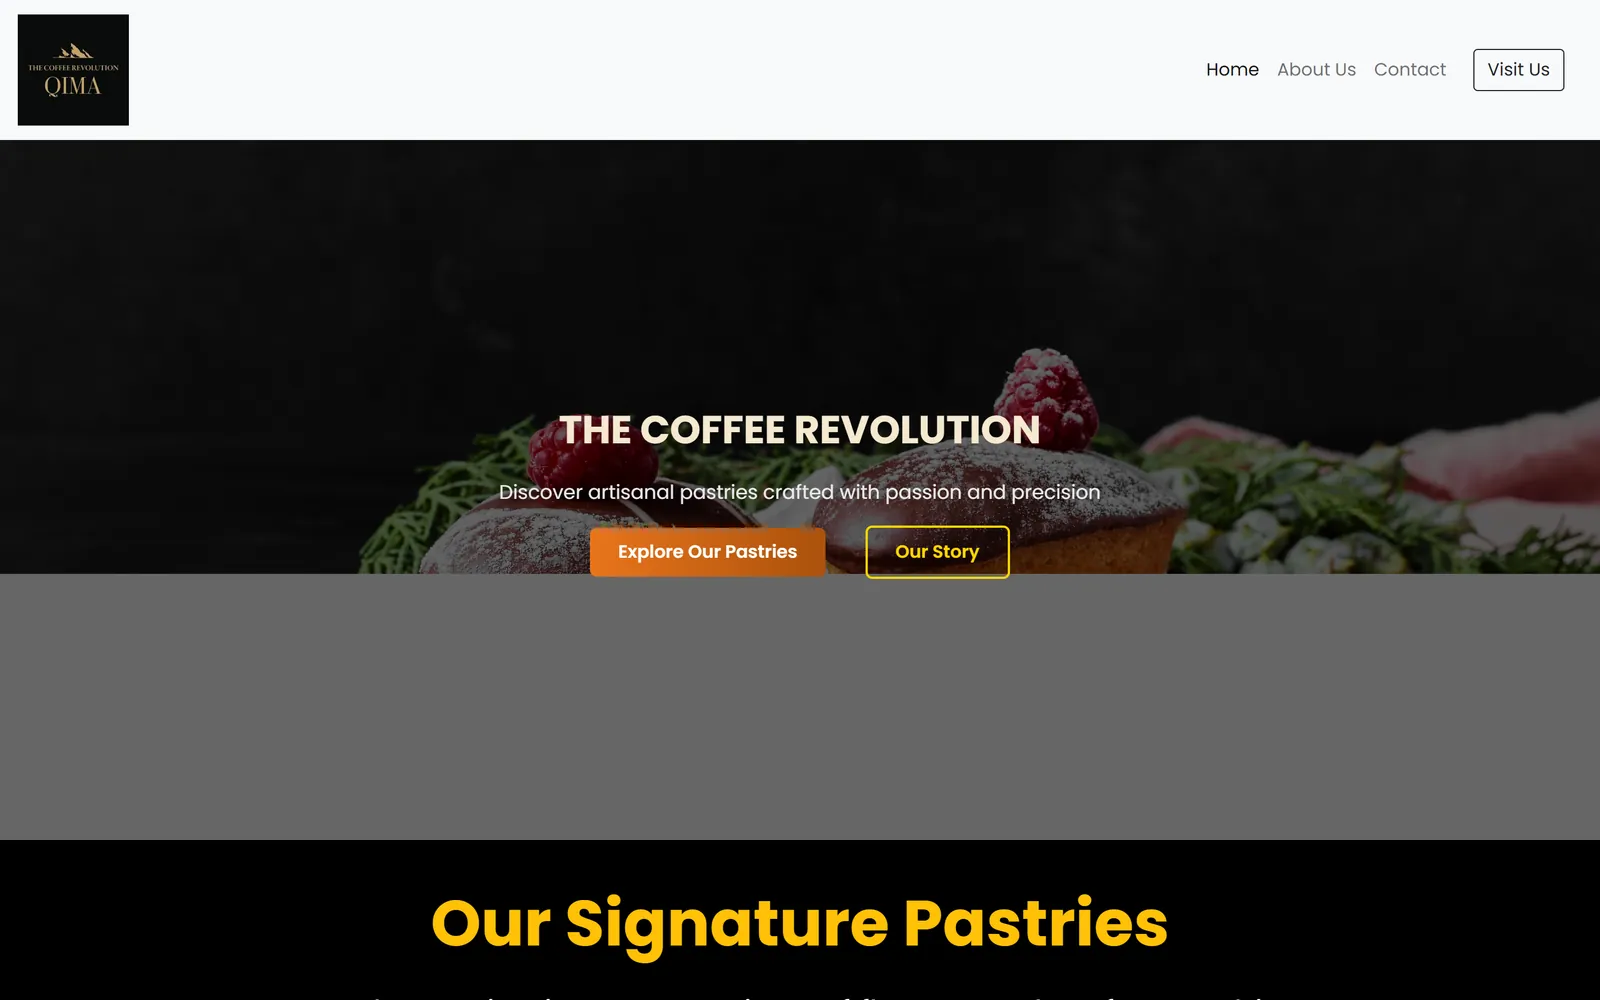
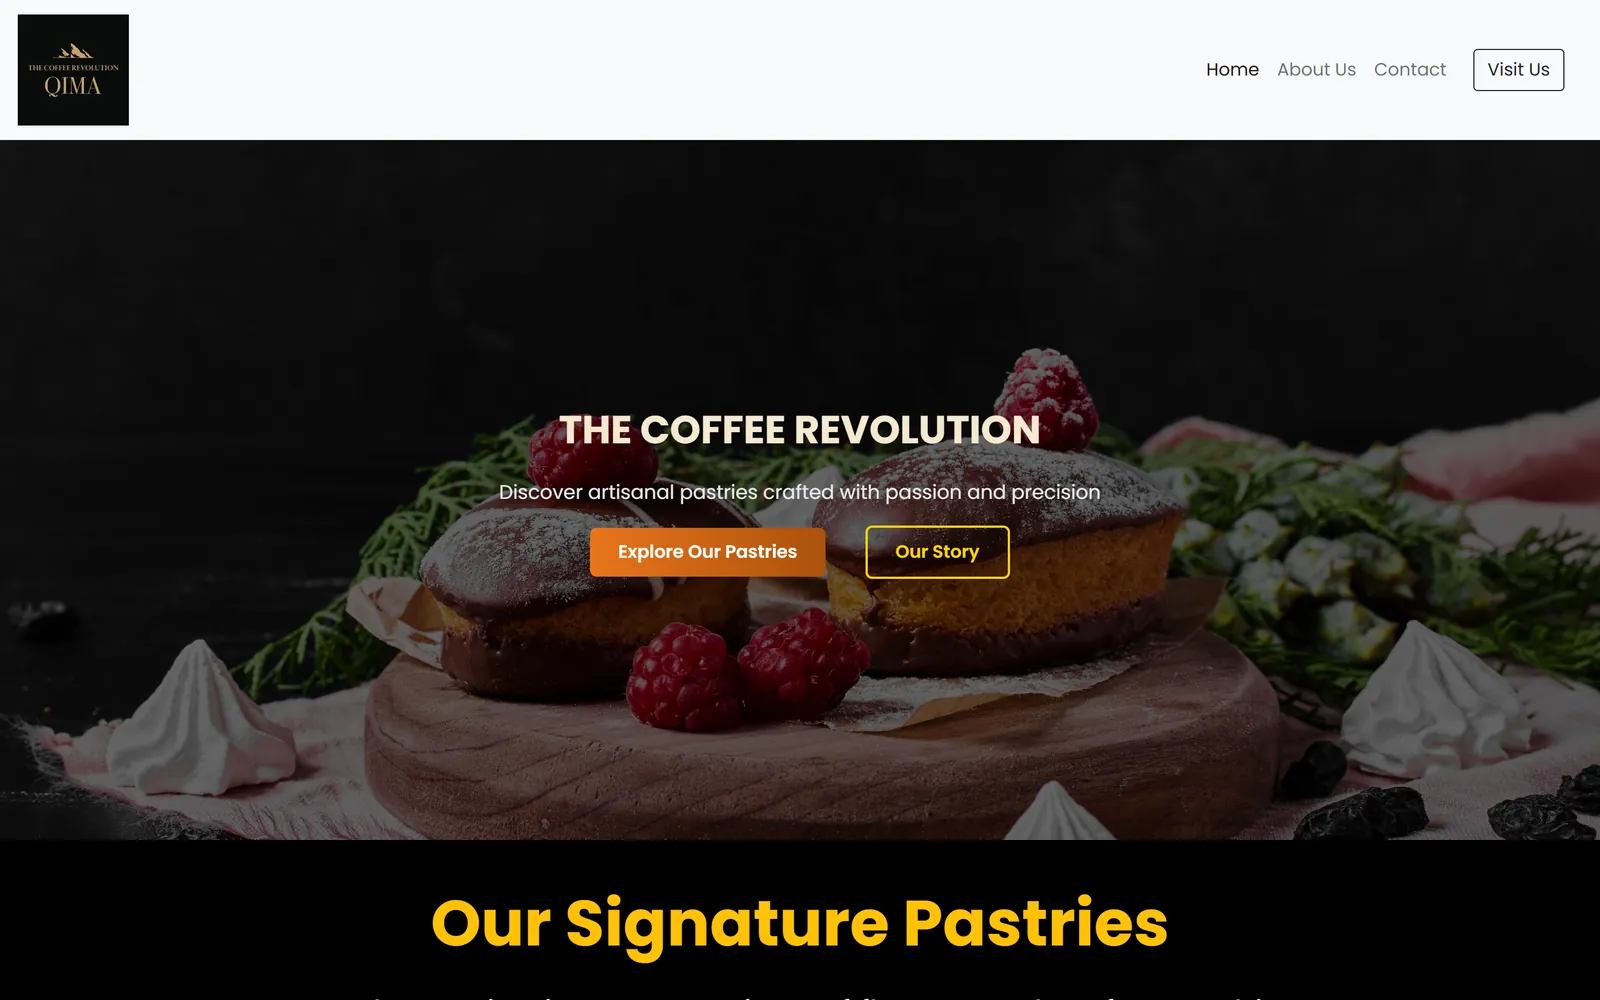
Retake QIMA Cafe screenshots with the hero image fully loaded
The live hero background is a 17.8 MB photo; the earlier captures caught it
half-loaded, which showed as a grey band in the project card.

Changed region(s): [[0.0, 0.558, 1.0, 0.837]]

diff --git a/index.html b/index.html
@@ -530,14 +530,14 @@
               <span class="wbrowser__dots"><i></i><i></i><i></i></span>
               <span class="wbrowser__url"><svg viewBox="0 0 16 16" focusable="false"><path d="M4.5 7V5.5a3.5 3.5 0 0 1 7 0V7M3.5 7h9v6.5h-9z"/></svg>manish123-cmd.github.io/QIMA-Cafe</span>
             </div>
-            <a class="wbrowser__screen" href="assets/work/qima-full.webp" target="_blank" rel="noopener" data-preview aria-label="Preview the whole QIMA Cafe page">
-              <img class="wbrowser__shot" src="assets/work/qima-desktop.webp" width="1600" height="1000" alt="Screenshot of the QIMA Cafe home page" loading="lazy" decoding="async">
-              <img class="wbrowser__full" data-src="assets/work/qima-full.webp" width="1600" height="3419" alt="" aria-hidden="true" decoding="async">
+            <a class="wbrowser__screen" href="assets/work/qima-full.webp?v=2" target="_blank" rel="noopener" data-preview aria-label="Preview the whole QIMA Cafe page">
+              <img class="wbrowser__shot" src="assets/work/qima-desktop.webp?v=2" width="1600" height="1000" alt="Screenshot of the QIMA Cafe home page" loading="lazy" decoding="async">
+              <img class="wbrowser__full" data-src="assets/work/qima-full.webp?v=2" width="1600" height="3419" alt="" aria-hidden="true" decoding="async">
               <span class="wbrowser__hint" aria-hidden="true">Hover to preview</span>
             </a>
           </div>
-            <div class="wphone" aria-hidden="true"><img src="assets/work/qima-mobile.webp" width="600" height="1298" alt="" loading="lazy" decoding="async"></div>
-            <a class="wbtn wbtn--outline wcard__preview" href="assets/work/qima-full.webp" target="_blank" rel="noopener" data-preview aria-label="Preview the whole QIMA Cafe page">Preview</a>
+            <div class="wphone" aria-hidden="true"><img src="assets/work/qima-mobile.webp?v=2" width="600" height="1298" alt="" loading="lazy" decoding="async"></div>
+            <a class="wbtn wbtn--outline wcard__preview" href="assets/work/qima-full.webp?v=2" target="_blank" rel="noopener" data-preview aria-label="Preview the whole QIMA Cafe page">Preview</a>
           </div>
         </div>
         <span class="wcard__shade" aria-hidden="true"></span>
@@ -915,7 +915,7 @@
   <script src="js/stepper.js" defer></script>
   <script src="js/welcome.js" defer></script>
   <script src="js/about.js?v=3" defer></script>
-  <script src="js/work.js?v=6" defer></script>
+  <script src="js/work.js?v=7" defer></script>
   <script src="js/certifications.js" defer></script>
   <script src="js/journey.js" defer></script>
   <script src="js/contact.js" defer></script>

diff --git a/js/work.js b/js/work.js
@@ -120,9 +120,9 @@
         accent: '#d86d1b',
         accentInk: '#9c4e13',
         shots: {
-          desktop: 'assets/work/qima-desktop.webp',
-          full: 'assets/work/qima-full.webp', fullHeight: 3419,
-          mobile: 'assets/work/qima-mobile.webp',
+          desktop: 'assets/work/qima-desktop.webp?v=2',
+          full: 'assets/work/qima-full.webp?v=2', fullHeight: 3419,
+          mobile: 'assets/work/qima-mobile.webp?v=2',
           alt: 'Screenshot of the QIMA Cafe home page',
         },
       },
